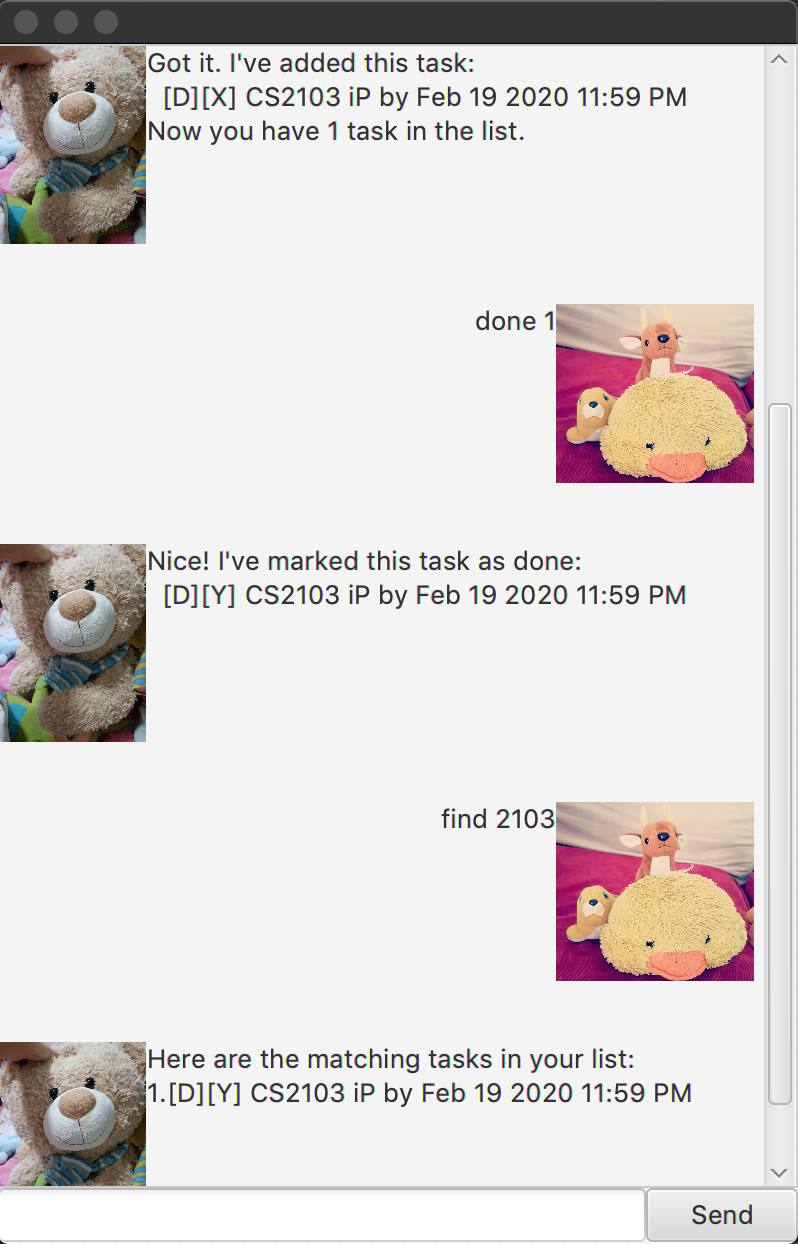
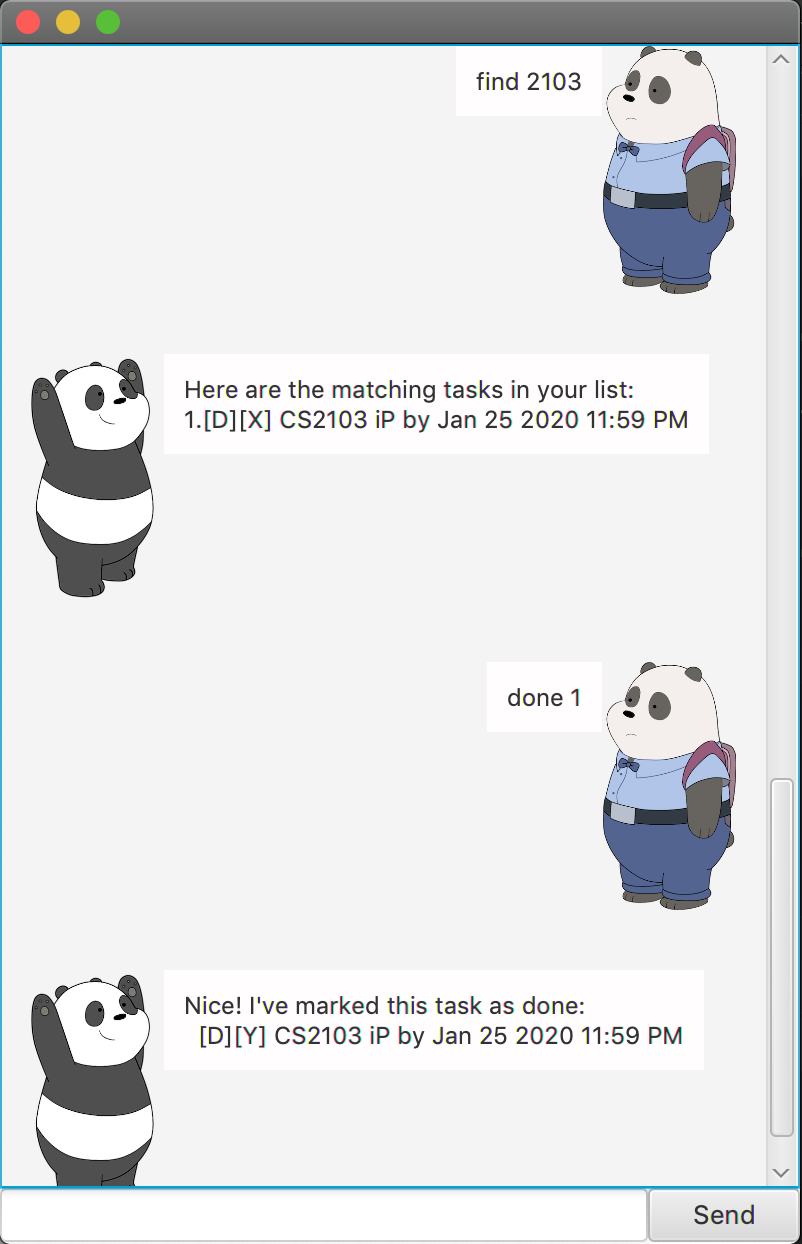
Updated UI

diff --git a/src/main/java/MainWindow.java b/src/main/java/MainWindow.java
@@ -26,8 +26,10 @@ public class MainWindow extends AnchorPane {
     private Duke duke;
     private GuiUi ui = new GuiUi();
 
-    private Image userImage = new Image(this.getClass().getResourceAsStream("images/DaUser.jpg"));
-    private Image dukeImage  = new Image(this.getClass().getResourceAsStream("images/DaDuke.jpg"));
+    private Image startUpImage = new Image(this.getClass().getResourceAsStream("images/startUp.png"));
+    private Image userImage = new Image(this.getClass().getResourceAsStream("images/DaUser.png"));
+    private Image dukeImage = new Image(this.getClass().getResourceAsStream("images/DaDuke.png"));
+    private Image invalidImage  = new Image(this.getClass().getResourceAsStream("images/wrongCommand.png"));
 
     @FXML
     public void initialize() {
@@ -46,10 +48,19 @@ public class MainWindow extends AnchorPane {
     private void handleUserInput() {
         String input = userInput.getText();
         String response = duke.getResponse(input);
+
+        if (response.contains("OOPS!!!")) {
+                dialogContainer.getChildren().addAll(
+                        DialogBox.getUserDialog(input, userImage),
+                        DialogBox.getDukeDialog(response, invalidImage)
+                );
+        } else {
         dialogContainer.getChildren().addAll(
                 DialogBox.getUserDialog(input, userImage),
                 DialogBox.getDukeDialog(response, dukeImage)
         );
+        }
+
         userInput.clear();
 
         if (response.contains("Bye")) {
@@ -75,6 +86,6 @@ public class MainWindow extends AnchorPane {
         }
 
         dialogContainer.getChildren().addAll(
-                DialogBox.getUserDialog(output, dukeImage));
+                DialogBox.getUserDialog(output, startUpImage));
     }
 }

diff --git a/src/main/java/Parser.java b/src/main/java/Parser.java
@@ -87,7 +87,8 @@ public class Parser {
         int dateIndex = this.getDateIndex() + 1;
 
         if (dateIndex == (inputs.length + 1) || dateIndex == inputs.length) {
-            throw new DukeException("\u2639" + " OOPS!!! This task requires a date\n");
+            throw new DukeException("\u2639" + " OOPS!!! This task requires a date. Please input a date in this " +
+                    "format: YYYY-MM-DD HH:MM\n");
         }
 
         LocalDate localDate = LocalDate.parse(inputs[dateIndex]);

diff --git a/src/main/java/DialogBox.java b/src/main/java/DialogBox.java
@@ -11,6 +11,7 @@ import javafx.scene.control.Label;
 import javafx.scene.image.Image;
 import javafx.scene.image.ImageView;
 import javafx.scene.layout.HBox;
+import javafx.scene.layout.Region;
 
 /**
  * An example of a custom control using FXML.
@@ -40,6 +41,8 @@ public class DialogBox extends HBox {
         }
 
         dialog.setText(text);
+        dialog.setMinHeight(Region.USE_PREF_SIZE);
+        dialog.setGraphicTextGap(100);
         displayPicture.setImage(img);
     }
 
